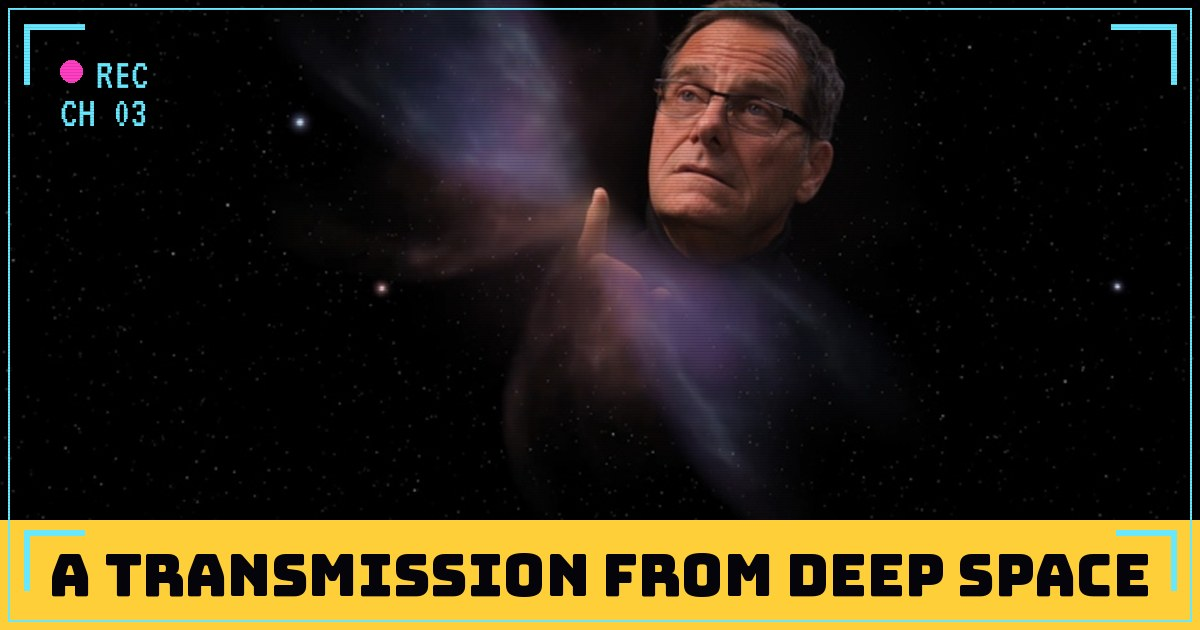
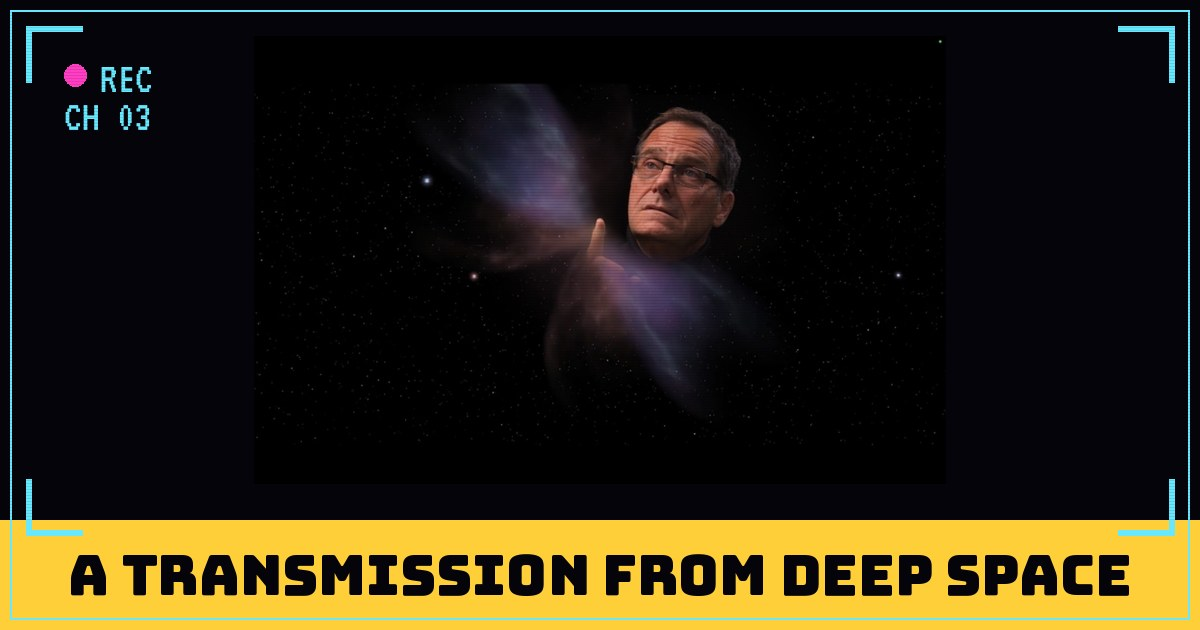
OG image: use real storyboard photo with 'A transmission from deep space' overlay

Changed region(s): [[0.0, 0.0, 1.0, 0.9952], [0.2158, 0.181, 0.2775, 0.2111], [0.3083, 0.4524, 0.3392, 0.4825]]

diff --git a/index.html b/index.html
@@ -15,7 +15,7 @@
   <meta property="og:type" content="website" />
   <meta property="og:title" content="No fees. No minimums. No caps. Try Ramp Business Banking today." />
   <meta property="og:description" content="Now broadcasting on all channels." />
-  <meta property="og:image" content="https://kendallhtucker.github.io/buckley-banking-universe/assets/og-image-v2.jpg" />
+  <meta property="og:image" content="https://kendallhtucker.github.io/buckley-banking-universe/assets/og-image-v3.jpg" />
   <meta property="og:image:width" content="1200" />
   <meta property="og:image:height" content="630" />
   <meta property="og:url" content="https://kendallhtucker.github.io/buckley-banking-universe/" />
@@ -24,7 +24,7 @@
   <meta name="twitter:card" content="summary_large_image" />
   <meta name="twitter:title" content="No fees. No minimums. No caps. Try Ramp Business Banking today." />
   <meta name="twitter:description" content="Now broadcasting on all channels." />
-  <meta name="twitter:image" content="https://kendallhtucker.github.io/buckley-banking-universe/assets/og-image-v2.jpg" />
+  <meta name="twitter:image" content="https://kendallhtucker.github.io/buckley-banking-universe/assets/og-image-v3.jpg" />
   <link rel="preconnect" href="https://fonts.googleapis.com" />
   <link rel="preconnect" href="https://fonts.gstatic.com" crossorigin />
   <link href="https://fonts.googleapis.com/css2?family=Bungee&family=Bungee+Shade&family=VT323&family=IBM+Plex+Mono:wght@400;600;700&display=swap" rel="stylesheet" />